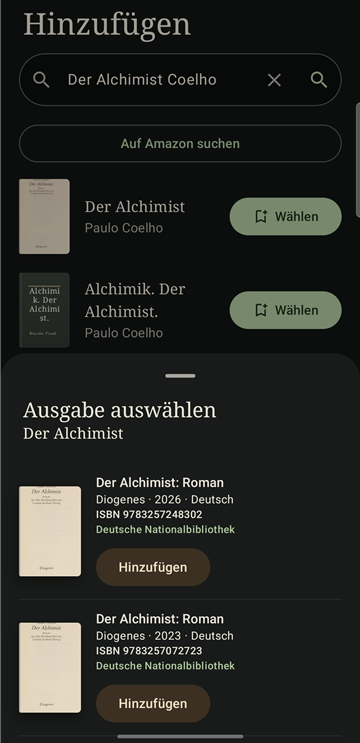
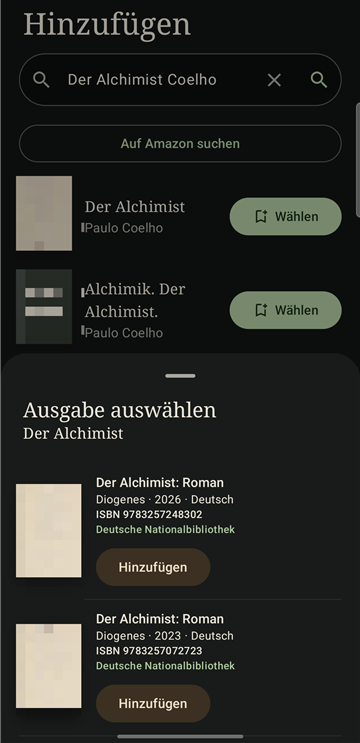
Cover in Screenshots verpixelt, README und Drittanbieterliste präzisiert, gradlew ausführbar

diff --git a/README.md b/README.md
@@ -9,11 +9,13 @@ Warraq ist eine Android-App für die eigene Büchersammlung, gebaut für Leute, 
 <img src="docs/screenshots/lesehilfe-de.png" width="200" alt="Lesehilfe in den Buchdetails">
 </p>
 
-**[APK herunterladen](https://github.com/momosadf58-web/Warraq/releases/latest)** · Android 8.0 oder neuer · [English below](#english)
+**[APK herunterladen](https://github.com/momosadf58-web/Warraq/releases/latest)** · Android 8.0 oder neuer, 64-Bit-ARM · [English below](#english)
+
+Die Buchcover in den Screenshots sind absichtlich verpixelt.
 
 ## Warum es die App gibt
 
-Die meisten Bibliotheks-Apps finden arabische Titel schlecht, verwechseln Ausgaben oder kommen mit Schrift von rechts nach links nicht zurecht. Warraq ist von Anfang an zweisprachig gebaut. Die Oberfläche gibt es auf Deutsch und Arabisch, die Texterkennung liest arabische Cover direkt auf dem Gerät, und für arabische Bücher sucht die App zusätzlich im Katalog der Hindawi-Stiftung und beim Verlag Alrewaq.
+Warraq ist von Anfang an zweisprachig gebaut. Die Oberfläche gibt es auf Deutsch und Arabisch, die Texterkennung liest arabische Cover direkt auf dem Gerät, und für arabische Bücher sucht die App zusätzlich im Katalog der Hindawi-Stiftung und beim Verlag Alrewaq.
 
 Ein Konto braucht man nicht. Die Bibliothek liegt als `library.json` mit den Coverbildern auf dem Handy und lässt sich als ZIP sichern.
 
@@ -35,7 +37,7 @@ Optional gibt es den KI-Helfer Allam (علام). Er macht Lesetipps, beantwortet
 2. Die Datei auf dem Handy öffnen. Android fragt einmal nach der Erlaubnis, Apps aus dieser Quelle zu installieren.
 3. Die App fragt beim ersten Scannen nach der Kamera. Internet braucht sie nur für die Buchsuche.
 
-Warraq ist nicht im Play Store. Die SHA-256-Prüfsumme der APK steht in den Release-Notizen.
+Die APK läuft nur auf Geräten mit 64-Bit-ARM-Prozessor (`arm64-v8a`), das sind praktisch alle Handys der letzten Jahre. Warraq ist nicht im Play Store. Die SHA-256-Prüfsumme der APK steht in den Release-Notizen.
 
 ## Selbst bauen
 
@@ -61,7 +63,7 @@ Code/Android/app/src/main/
     ui/     Bildschirme: Bibliothek, Hinzufügen, Kamera, Details, Statistik, 3D-Raum, Profil
   assets/
     room/        3D-Buchladen (HTML, JavaScript, Three.js)
-    tessdata/    Tesseract-Modelle für Arabisch, Deutsch, Englisch
+    tessdata/    Tesseract-Modell für Arabisch
     paddle/      PaddleOCR-Modelle für Arabisch (ONNX)
     hindawi-*.json   Metadaten und Beschreibungen arabischer Bücher
 ```
@@ -70,7 +72,7 @@ Arabische Cover liest die App mit PaddleOCR und Tesseract als Rückfall, lateini
 
 ## Daten und Privatsphäre
 
-Es gibt keine Anmeldung, keine Werbung und kein Tracking. Bei einer Suche geht nur der Suchbegriff an die genannten Kataloge. Der KI-Schlüssel liegt im geschützten App-Speicher und wird nicht mitgesichert.
+Es gibt keine Anmeldung, keine Werbung und kein Tracking. Bei einer Suche geht nur der Suchbegriff an die genannten Kataloge. Wer Allam einschaltet, schickt für die jeweilige Anfrage Titel, Autoren, Lesestatus und Bewertungen der betroffenen Bücher an Ollama. Profildaten gehen nicht mit. Der KI-Schlüssel liegt im geschützten App-Speicher und wird nicht mitgesichert.
 
 ## Lizenz
 

diff --git a/THIRD_PARTY.md b/THIRD_PARTY.md
@@ -9,7 +9,7 @@ Die [PolyForm-Noncommercial-Lizenz](LICENSE) dieses Repositorys gilt nur für de
 | Bestandteil | Wo | Lizenz |
 |---|---|---|
 | [Three.js](https://github.com/mrdoob/three.js) r170 | `assets/room/three.module.min.js` | MIT (siehe `assets/room/THREE-LICENSE.txt`) |
-| [Tesseract tessdata](https://github.com/tesseract-ocr/tessdata_best) 4.1.0 (Arabisch best, Deutsch und Englisch fast) | `assets/tessdata/` | Apache 2.0 (siehe `Code/Android/LIZENZEN/Tesseract-models-Apache-2.0.txt`) |
+| [Tesseract tessdata_best](https://github.com/tesseract-ocr/tessdata_best) 4.1.0, Arabisch | `assets/tessdata/` | Apache 2.0 (siehe `Code/Android/LIZENZEN/Tesseract-models-Apache-2.0.txt`) |
 | [PaddleOCR](https://github.com/PaddlePaddle/PaddleOCR) PP-OCRv3, ONNX-Fassung von [monkt/paddleocr-onnx](https://huggingface.co/monkt/paddleocr-onnx) | `assets/paddle/` | Apache 2.0 |
 | Schrift [Aref Ruqaa](https://github.com/alif-type/aref-ruqaa) | `res/font/` | SIL Open Font License 1.1 (siehe `Code/Android/LIZENZEN/ArefRuqaa-OFL.txt`) |
 | Hindawi-Metadaten aus [The Arabic E-Book Corpus](https://researchdata.se/en/catalogue/dataset/2024-145/1) (Andreas Hallberg, Universität Göteborg) | `assets/hindawi-catalog.json` | CC BY 4.0 |
@@ -27,7 +27,7 @@ Die [PolyForm-Noncommercial-Lizenz](LICENSE) dieses Repositorys gilt nur für de
 | [AndroidSVG](https://github.com/BigBadaboom/androidsvg) 1.4 | Apache 2.0 |
 | Google ML Kit Text Recognition, Google Code Scanner (Play Services) | [Google APIs Terms of Service](https://developers.google.com/terms) und [ML Kit Terms](https://developers.google.com/ml-kit/terms) |
 | JUnit 4 (nur Tests) | EPL 1.0 |
-| org.json (nur Tests) | Public Domain / JSON License |
+| org.json 20240303 (nur Tests) | Public Domain |
 
 ## Online-Dienste (werden zur Laufzeit abgefragt, nichts davon ist mitgeliefert)
 
